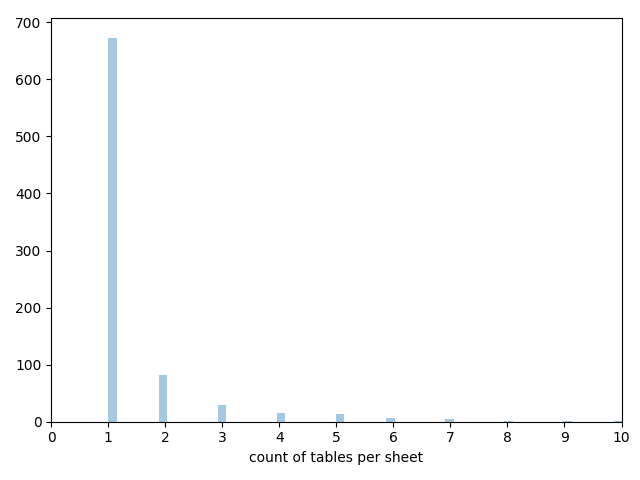
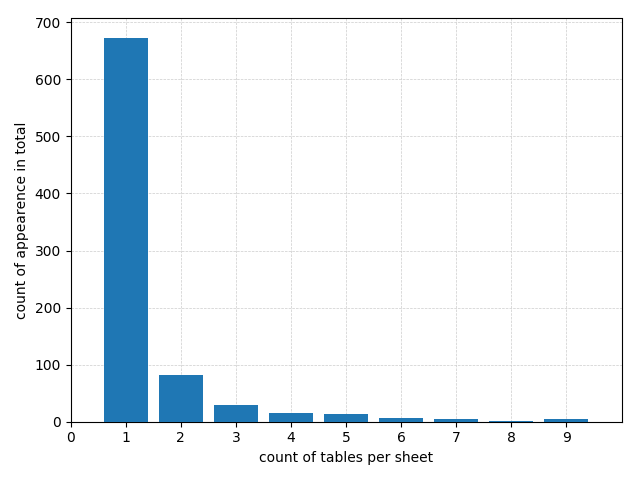
made review changes to graphs

diff --git a/src/graph/TableCountGraph.py b/src/graph/TableCountGraph.py
@@ -10,18 +10,24 @@ class TableCountGraph:
     def __init__(self, dbconnector):
         self.title = 'number of tables per sheet'
         self.xlabel = 'count of tables per sheet'
-        self.ylabel = 'appearence in %'
+        self.ylabel = 'count of appearence in total'
         self.dbconnector = dbconnector
         self.tables_per_sheet = self._getTablesPerSheet()
 
     def draw(self):
         plt.clf()
-        num_bins = len(self.tables_per_sheet)
-        # n, bins, patches = plt.hist( self.tables_per_sheet, num_bins, range=(1,10), facecolor='blue', normed= True, linewidth=1, edgecolor='green')
-        sns.distplot(self.tables_per_sheet, bins=num_bins, hist=True, kde=False, axlabel=self.xlabel)
+        plt.cla()
+
+        num_bins = range(0,11)
+
+        plt.grid(color='#cccccc', linestyle='--', linewidth=0.5, zorder=0)
+        sns.distplot(self.tables_per_sheet, bins=num_bins, hist=True, kde=False, hist_kws={'align':'left', 'zorder': 3, 'rwidth': 0.8, 'alpha':1.0 })
+        plt.xlabel(self.xlabel)
+        plt.ylabel(self.ylabel)
         plt.tight_layout()
+
         plt.xlim([0,10])
-        plt.xticks(np.arange(min(self.tables_per_sheet), 11, 1.0))
+        plt.xticks(np.arange(0, 10, 1.0))
         #plt.show()
         plt.savefig('images/table_count_per_file.png')
 

diff --git a/src/graph/LabelCountGraph.py b/src/graph/LabelCountGraph.py
@@ -9,13 +9,15 @@ class LabelCountGraph:
 
     def __init__(self, dbconnector):
         self.title = 'number of tables per sheet'
-        self.xlabel = 'count of tables per sheet'
-        self.ylabel = 'appearence in %'
+        self.xlabel = 'annotated cell labels'
+        self.ylabel = 'count of cells'
         self.dbconnector = dbconnector
         self.labelCount = self._getLabelCount()
 
     def draw(self):
         plt.clf()
+        plt.cla()
+        plt.close()
         height =  [x[0] for x in self.labelCount]
 
         # Choose the names of the bars
@@ -23,12 +25,16 @@ class LabelCountGraph:
         y_pos = np.arange(len(bars))
 
         # Create bars
-        plt.bar(y_pos, height)
 
         # Create names on the x-axis
-        plt.xticks(y_pos, bars, color='orange', rotation=90)
+        plt.xticks(y_pos, bars, color='orange', rotation=40, horizontalalignment='right')
         plt.yticks(color='orange')
-        plt.subplots_adjust(bottom=0.2, top=0.99)
+        plt.grid(color='#cccccc', linestyle='--', linewidth=0.5, zorder=0)
+        plt.bar(y_pos, height, zorder=3)
+        plt.xlabel(self.xlabel)
+        plt.ylabel(self.ylabel)
+
+        plt.tight_layout()
 
         # Show graphic
         plt.savefig('images/total_label_count.png')

diff --git a/src/graph/GraphManager.py b/src/graph/GraphManager.py
@@ -9,11 +9,11 @@ class GraphManager:
     def __init__(self, dbconnector):
         self.dbconnector = dbconnector
 
-        #tableCountGraph = TableCountGraph(dbconnector)
-        tableStats = TableStats(dbconnector)
-        #labelCountGraph = LabelCountGraph(dbconnector)
+        tableCountGraph = TableCountGraph(dbconnector)
+        #tableStats = TableStats(dbconnector)
+        labelCountGraph = LabelCountGraph(dbconnector)
 
-        self.graphsForDrawing = [ tableStats, ]
+        self.graphsForDrawing = [ tableCountGraph, labelCountGraph ]
 
     def draw(self):
         for graph in self.graphsForDrawing:

diff --git a/src/graph/TableStats.py b/src/graph/TableStats.py
@@ -59,7 +59,6 @@ class TableStats:
         [(overall_count,)] = overall_count
 
         df[3] = df.apply (lambda row: row[0]/overall_count,axis=1)
-
         print(df)
         print('\n')
 
